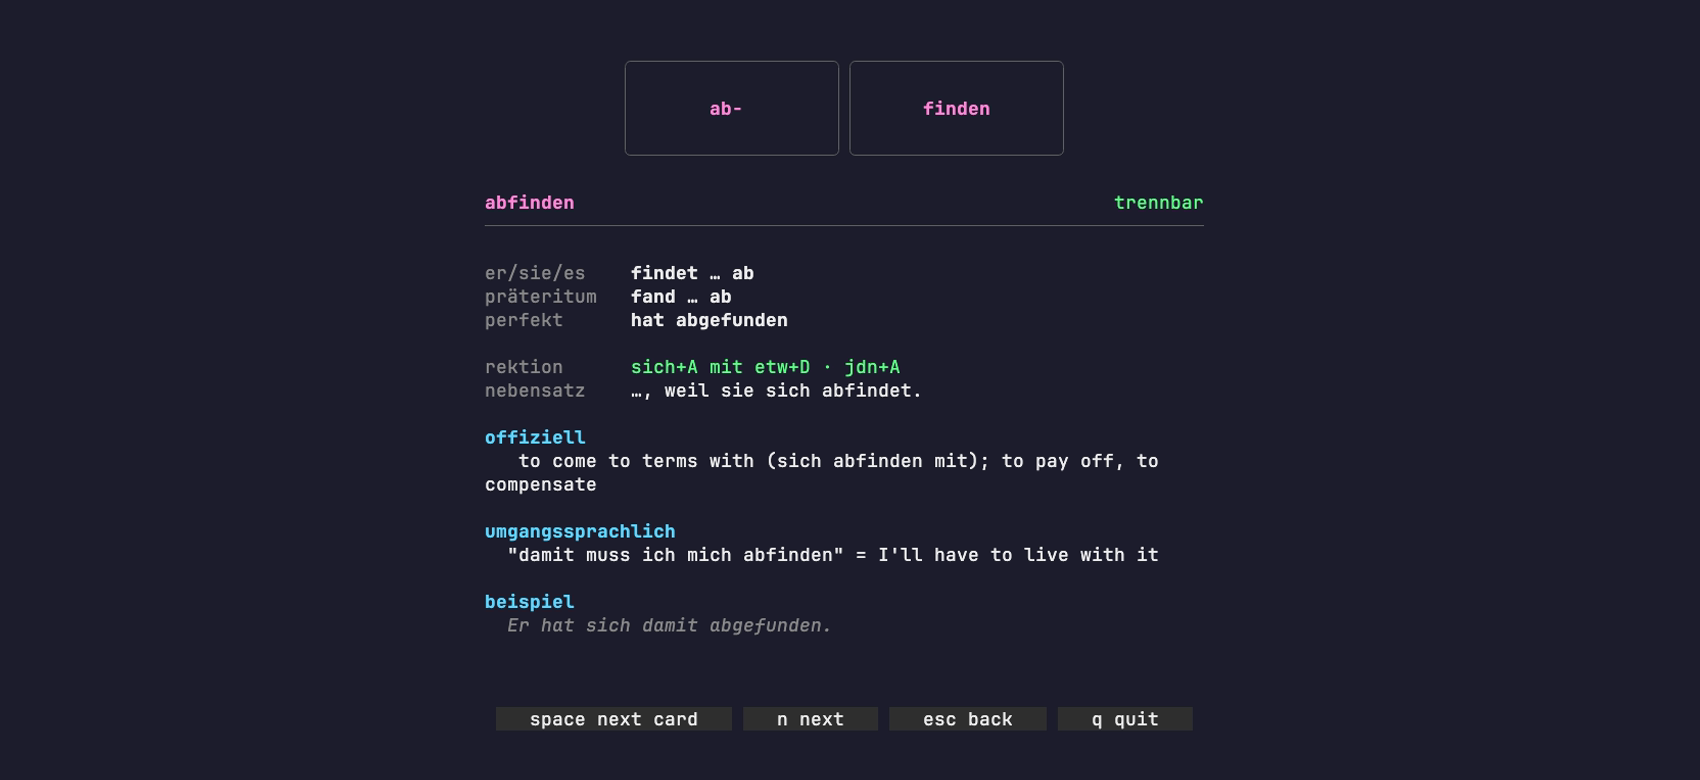
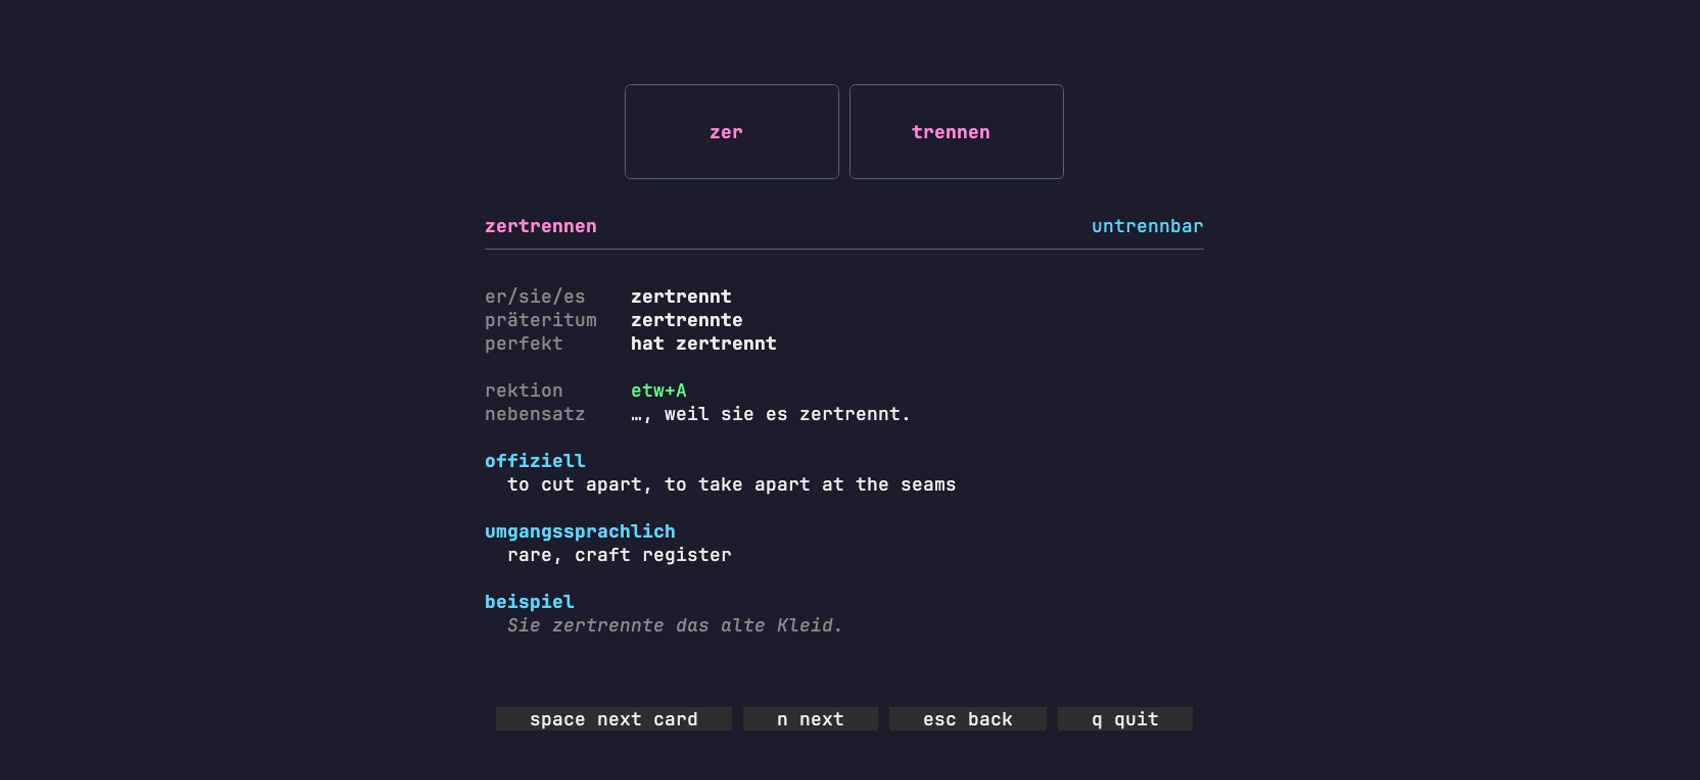
tja: name the key on the random button instead of a decorative star

diff --git a/main.go b/main.go
@@ -781,7 +781,7 @@ func (m model) chips() []chip {
 		{label: "« ^b", key: "ctrl+b"},
 		{label: "» ^f", key: "ctrl+f"},
 		{label: "/ search", key: "/"},
-		{label: "★ random", key: " "},
+		{label: "space random", key: " "},
 		{label: "f " + m.filterLabel(), key: "f"},
 		{label: "t test", key: "t"},
 		{label: "q quit", key: "q"},
